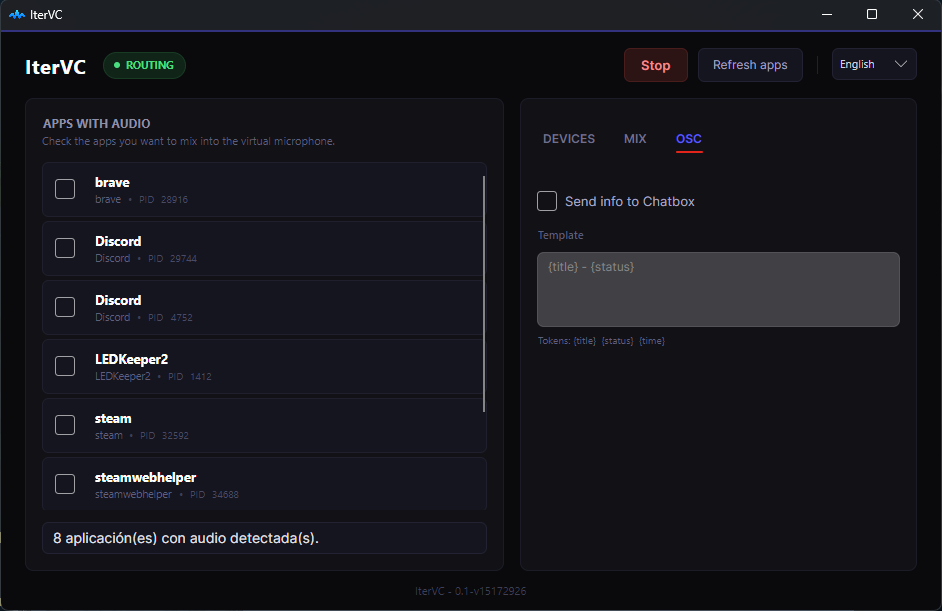
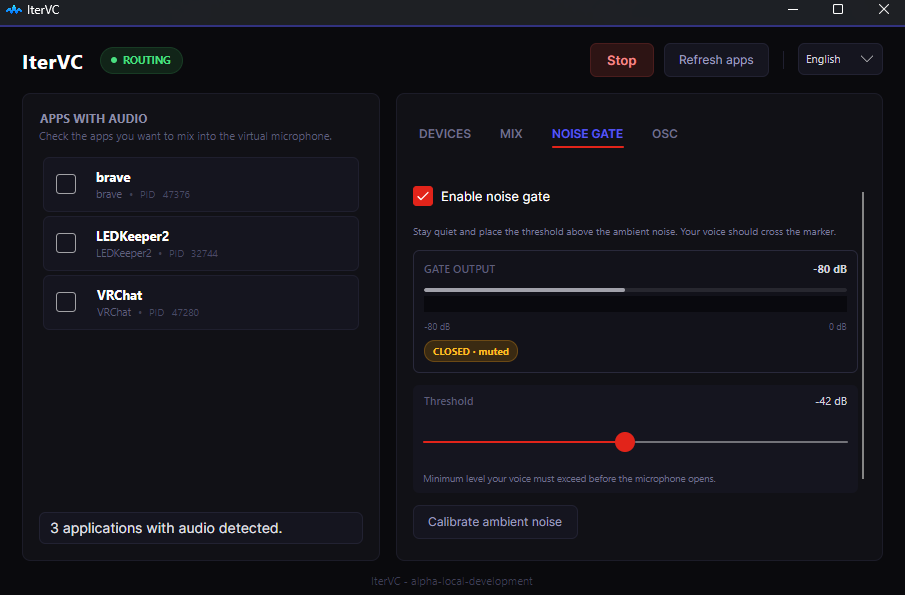
Update readme with new sreenshots

diff --git a/README.md b/README.md
@@ -111,11 +111,40 @@ The Avalonia UI frontend containing:
 
 ## 📸 Screenshots
 
-<p align="center">
-  <img src="./Screenshots/screenshot-001.png" width="32%" />
-  <img src="./Screenshots/screenshot-002.png"  width="32%" />
-  <img src="./Screenshots/screenshot-003.png"  width="32%" />
-</p>
+<table>
+  <tr>
+    <td width="50%" align="center">
+      <a href="./Screenshots/screenshot-001.png">
+        <img src="./Screenshots/screenshot-001.png" alt="Audio device configuration" width="100%" />
+      </a>
+      <br />
+      <sub><strong>Audio devices</strong></sub>
+    </td>
+    <td width="50%" align="center">
+      <a href="./Screenshots/screenshot-002.png">
+        <img src="./Screenshots/screenshot-002.png" alt="Application and microphone mix controls" width="100%" />
+      </a>
+      <br />
+      <sub><strong>Mix controls</strong></sub>
+    </td>
+  </tr>
+  <tr>
+    <td width="50%" align="center">
+      <a href="./Screenshots/screenshot-003.png">
+        <img src="./Screenshots/screenshot-003.png" alt="Microphone noise gate configuration" width="100%" />
+      </a>
+      <br />
+      <sub><strong>Microphone noise gate</strong></sub>
+    </td>
+    <td width="50%" align="center">
+      <a href="./Screenshots/screenshot-004.png">
+        <img src="./Screenshots/screenshot-004.png" alt="OSC Chatbox integration settings" width="100%" />
+      </a>
+      <br />
+      <sub><strong>OSC integration</strong></sub>
+    </td>
+  </tr>
+</table>
 
 ---
 